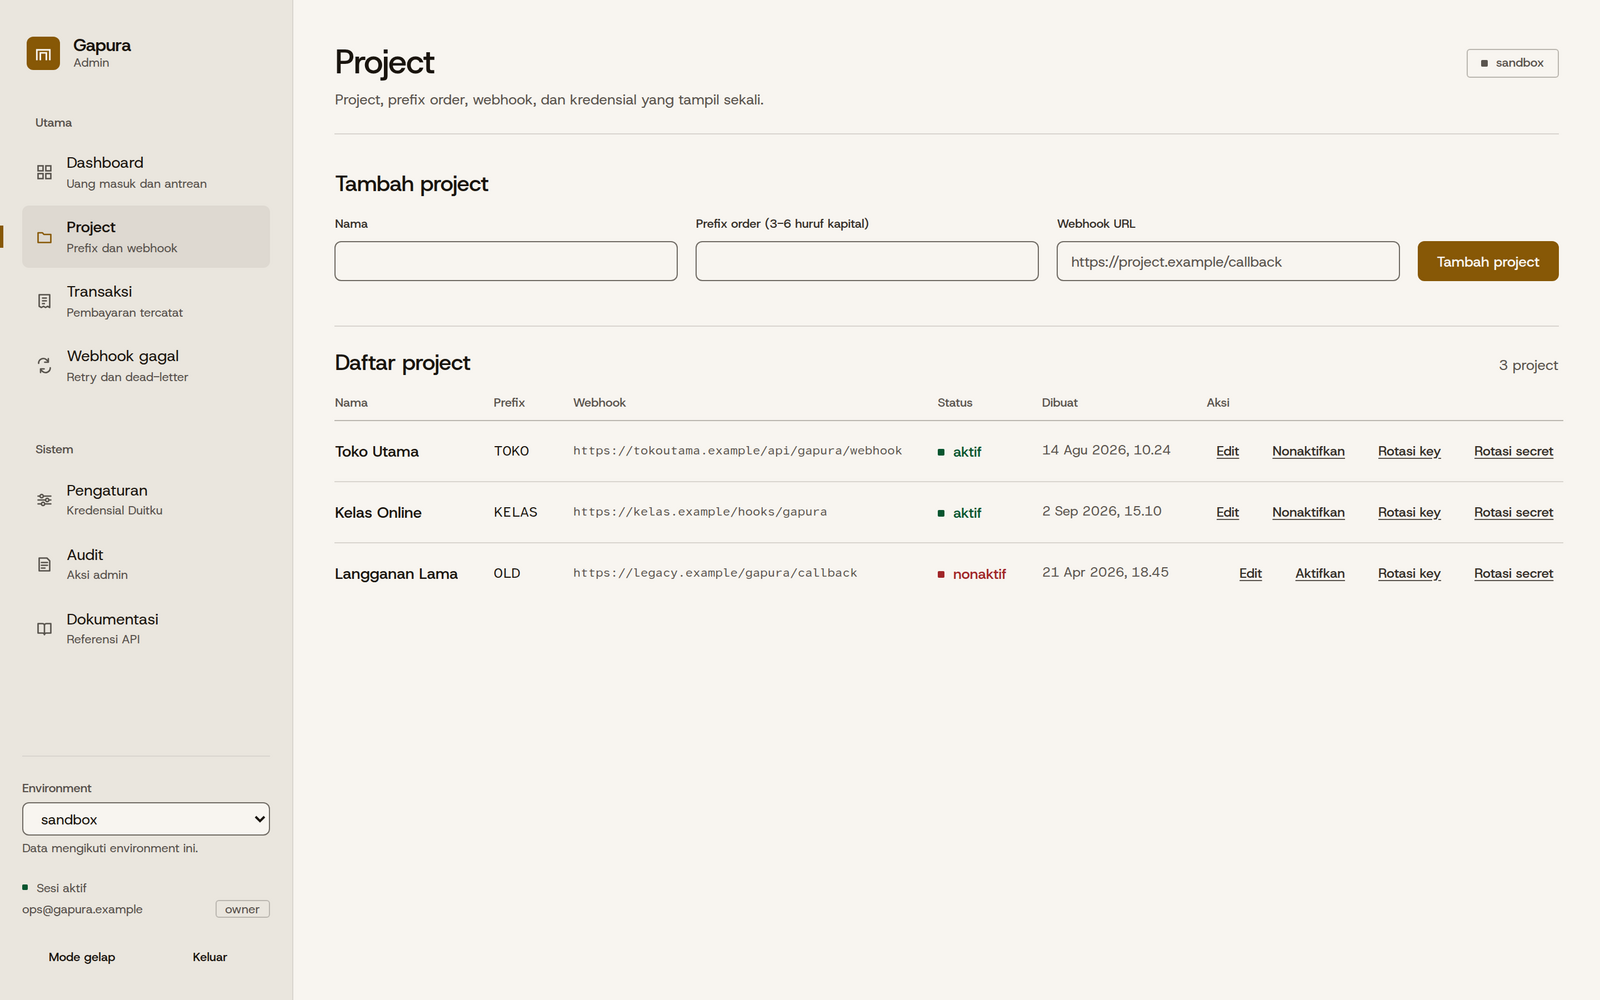
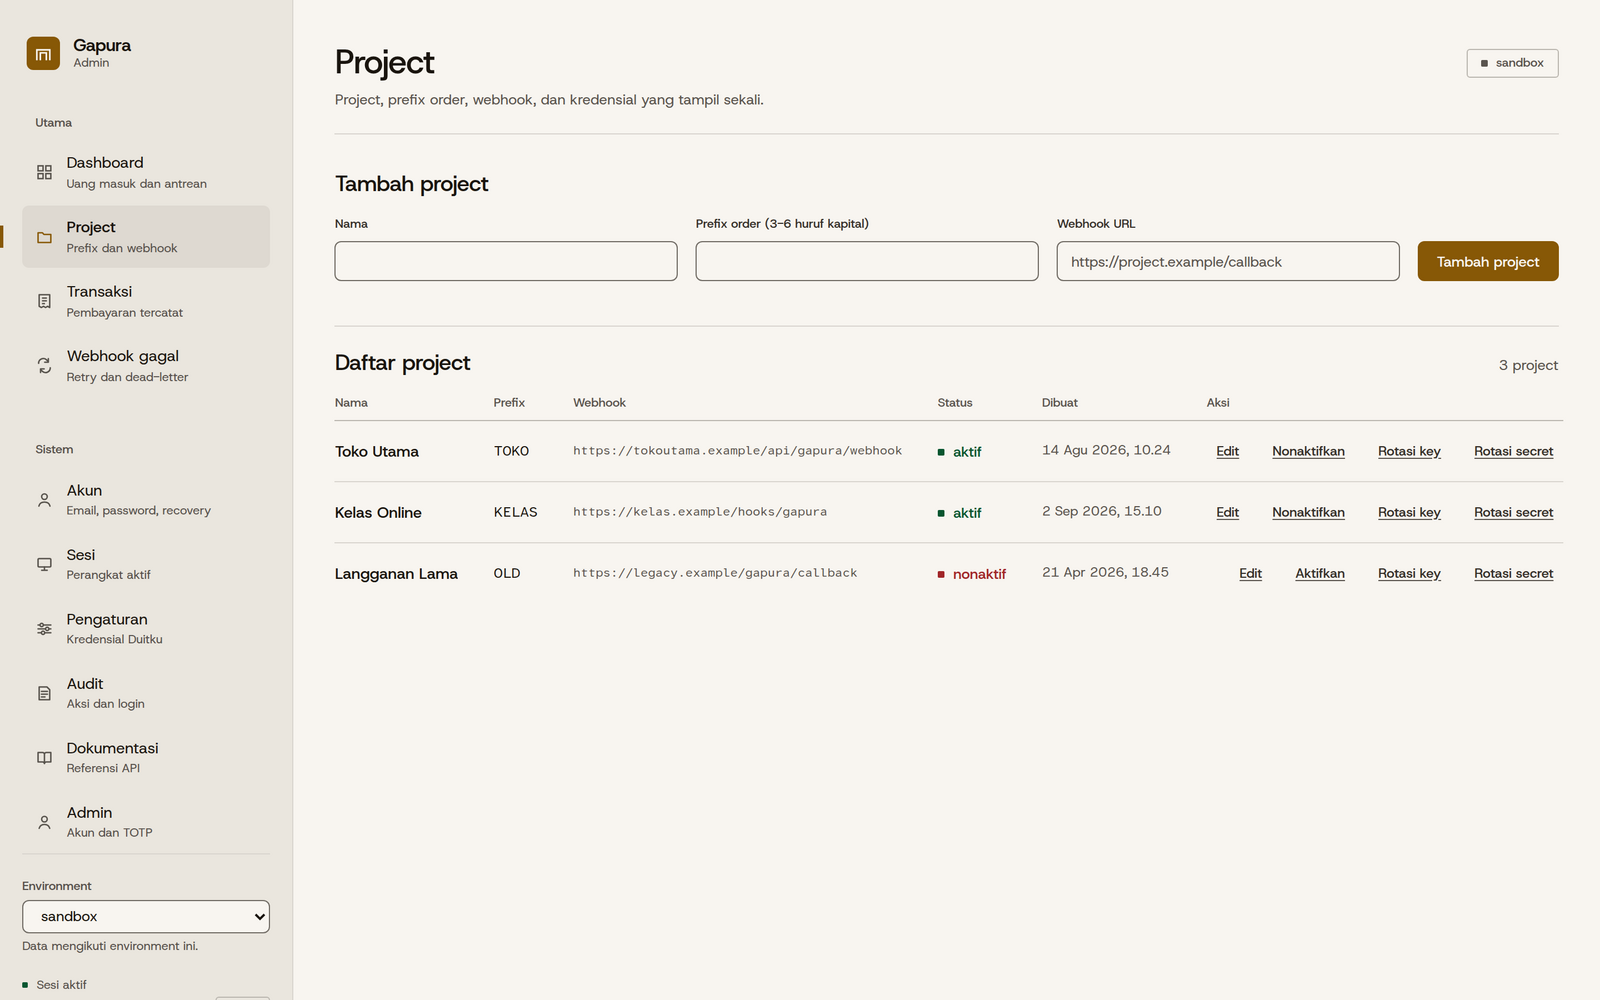
docs: refresh admin panel screenshots

diff --git a/README.md b/README.md
@@ -16,6 +16,10 @@ Panel admin dengan data demo — tidak ada kredensial atau data produksi di scre
 |---|---|
 | ![Daftar transaksi dengan filter project dan status](preview/transactions.png) | ![Daftar project, prefix, webhook, dan aksi kredensial](preview/projects.png) |
 
+| Akun | Sesi |
+|---|---|
+| ![Pengaturan akun: email, password, recovery code](preview/account.png) | ![Sesi admin dengan IP, user agent, dan reauth](preview/sessions.png) |
+
 | Audit | Tema gelap |
 |---|---|
 | ![Audit aksi admin](preview/audit.png) | ![Dashboard tema gelap](preview/dashboard-dark.png) |
